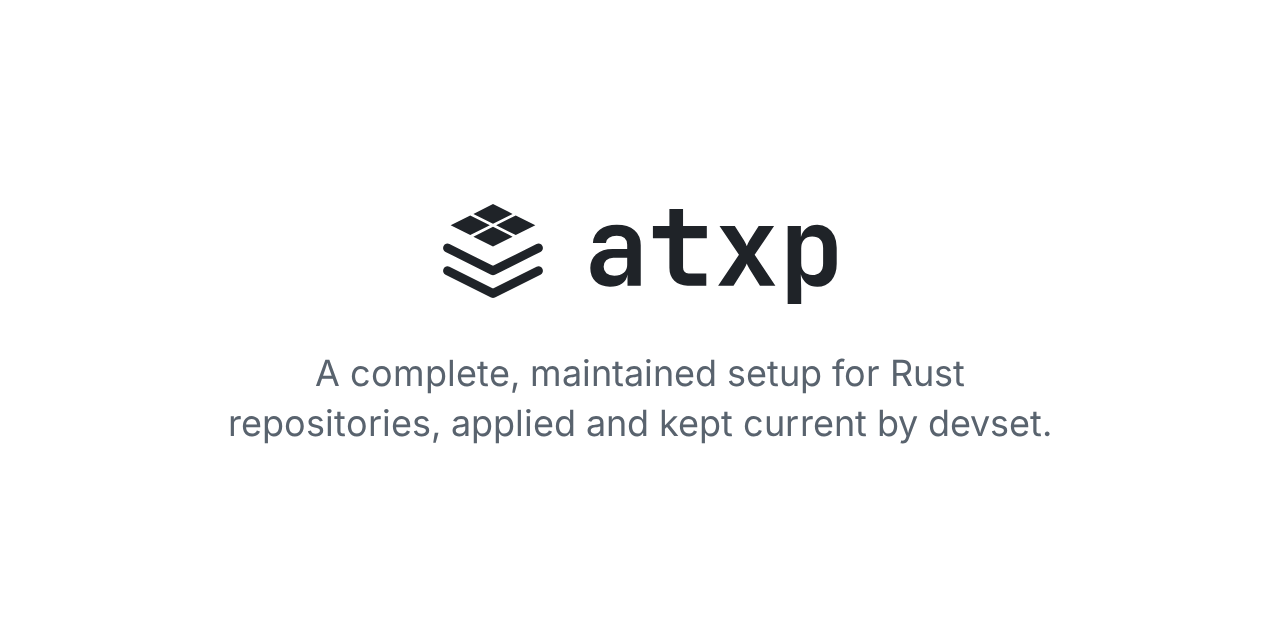
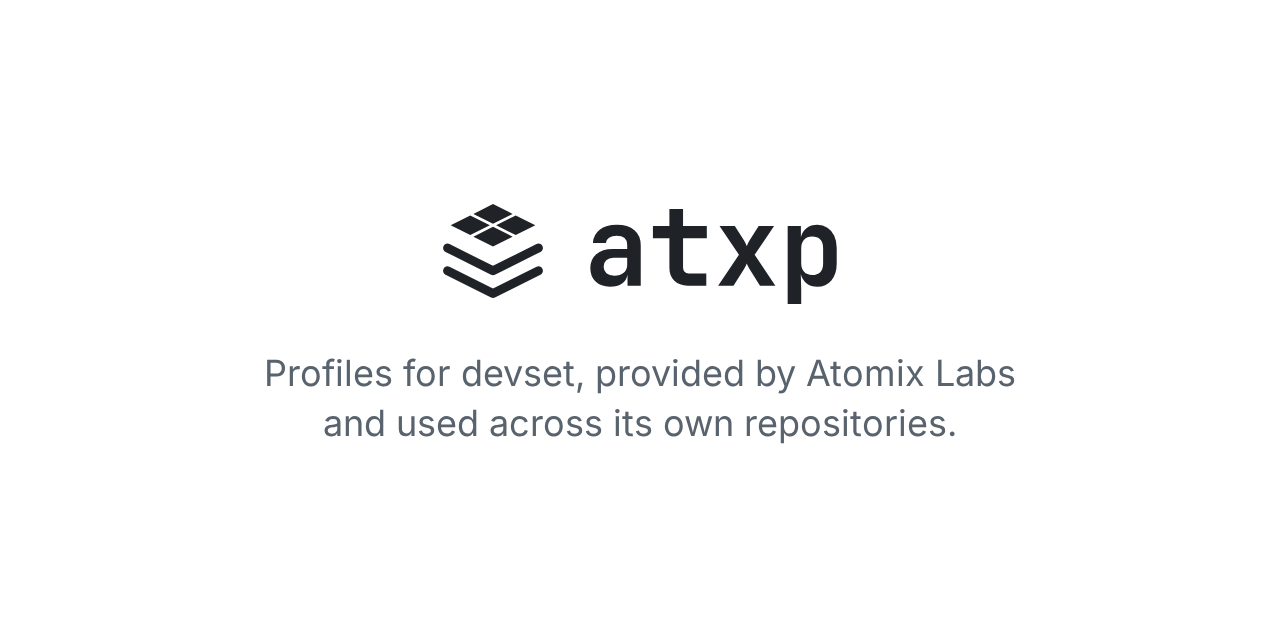
docs: describe atxp as profiles for any repository, from Atomix Labs
atxp read as the one setup for Rust repositories. It is a collection of
devset profiles that Atomix Labs provides and uses across its own
repositories: some fit any repository, others are for Rust, and more
come as they are needed. The tagline, the introduction, the collection's
description, AGENTS.md and the social card say so.

Changed region(s): [[0.1875, 0.5625, 0.8125, 0.6875]]

diff --git a/README.md b/README.md
@@ -7,7 +7,7 @@
   </picture>
 </h1>
 
-<p align="center">A complete, maintained setup for Rust repositories, applied and kept current by devset.</p>
+<p align="center">Profiles for devset, provided by Atomix Labs and used across its own repositories.</p>
 
 <p align="center">
   <a href="https://github.com/atomix-labs/atxp/actions/workflows/check.yml"><img alt="CI" src="https://img.shields.io/github/actions/workflow/status/atomix-labs/atxp/check.yml?branch=main&amp;style=flat-square&amp;label=check"></a>
@@ -32,11 +32,13 @@
 
 <!-- dprint-ignore-end -->
 
-atxp is a collection of profiles for [devset]: each one concern of a Rust
-repository, its configuration, recipes and pinned tools, which devset applies
-and keeps current without losing the repository's own edits. Take the `rust`
-bundle as it is, turn on the features you want, or build your own collection on
-top of it.
+atxp is a collection of [devset] profiles, provided by Atomix Labs and used
+across its own repositories: the configuration, recipes and pinned tools a
+repository needs, one concern to a profile. Some fit any repository, such as
+git, GitHub CI, Markdown, TOML, YAML and the docs; others are for Rust, with a
+`rust` bundle that sets up a Rust repository whole. More come as they are
+needed. Use them as they are, change a variable or a feature where your taste
+differs, build your own collection on top, or contribute a profile.
 
 <details>
 <summary>Table of Contents</summary>

diff --git a/AGENTS.md b/AGENTS.md
@@ -1,8 +1,9 @@
 # Working in `atxp`
 
-atxp is a collection of devset profiles for Rust repositories, released together
-under one tag. [ARCHITECTURE.md](ARCHITECTURE.md) says how the profiles are
-built and compose, and [CONTRIBUTING.md](CONTRIBUTING.md) the rules each keeps.
+atxp is a collection of devset profiles, for any repository and for Rust ones,
+released together under one tag. [ARCHITECTURE.md](ARCHITECTURE.md) says how the
+profiles are built and compose, and [CONTRIBUTING.md](CONTRIBUTING.md) the rules
+each keeps.
 
 <!-- >>> devset: agents >>> -->
 
